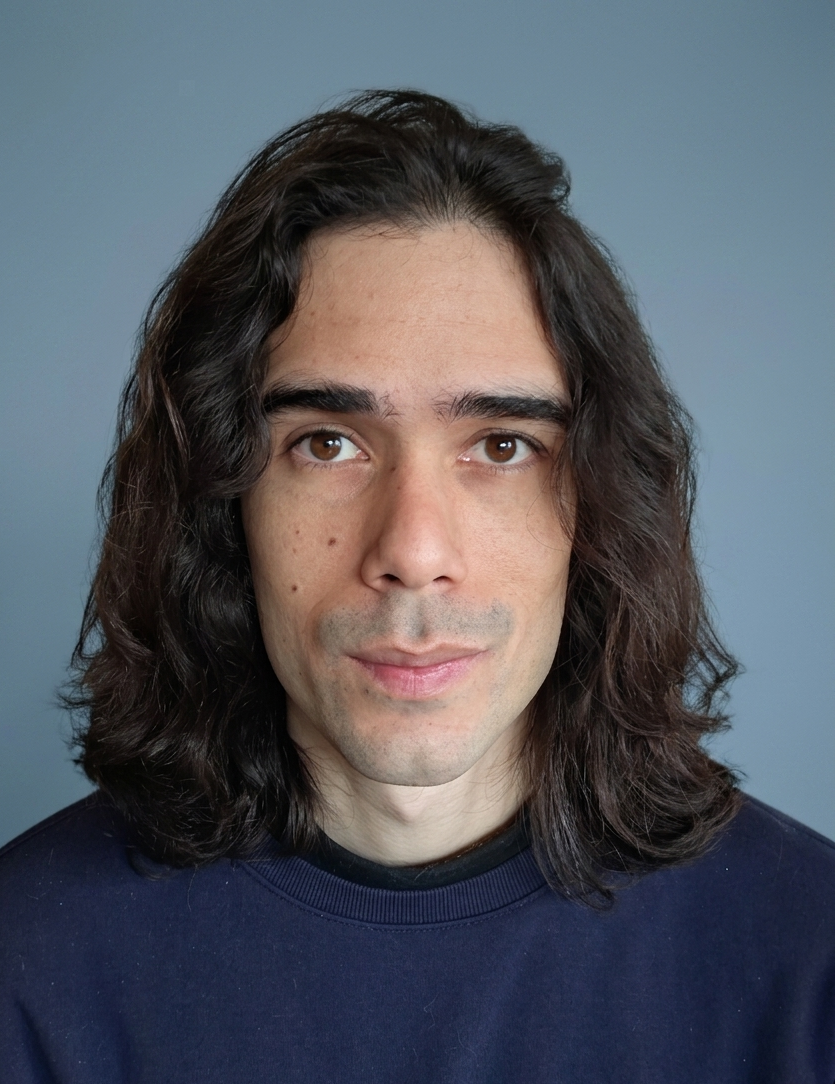
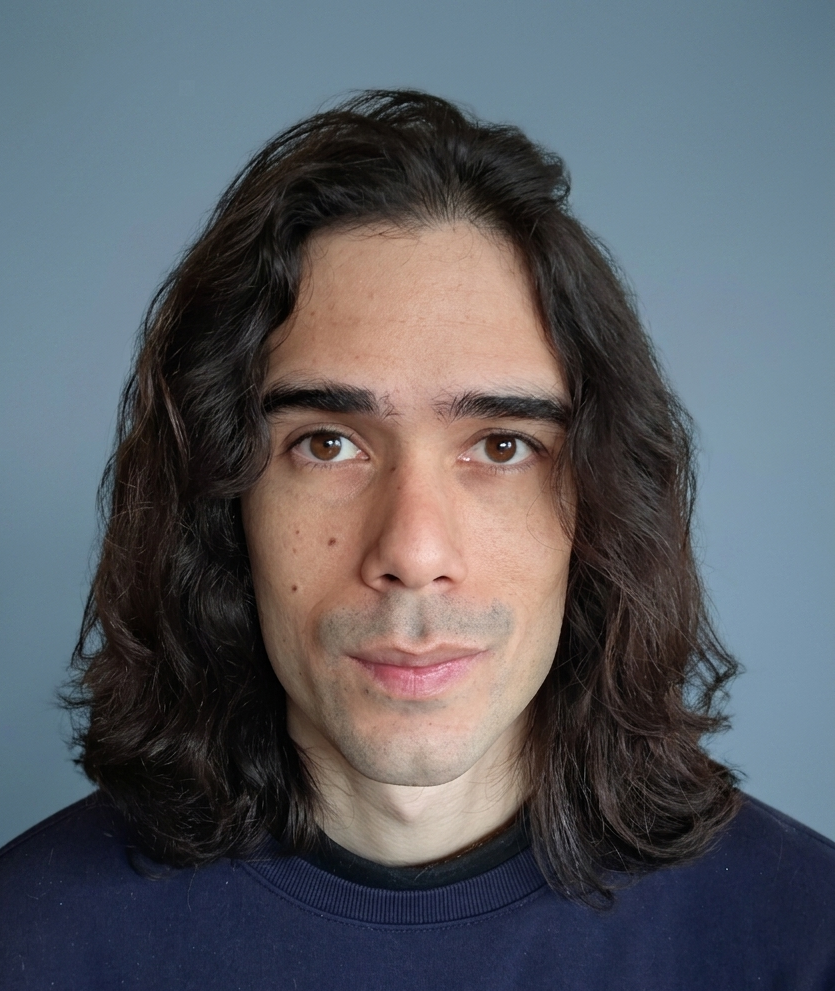
update photography

diff --git a/unscriptportfolio/src/app/page.tsx b/unscriptportfolio/src/app/page.tsx
@@ -98,7 +98,7 @@ function Navbar() {
             <span className="text-neutral-400 text-[8px] md:text-xs font-light tracking-[0.15em] md:tracking-[0.2em] uppercase opacity-90">
               2D Animation Artist
             </span>
-          </div>
+                      </div>
         </a>
         <ul className="flex gap-4 md:gap-14 text-neutral-300 list-none items-center">
           {NAV_LINKS.map(({ href, label }) => (
@@ -163,7 +163,7 @@ function AboutSection() {
             <img
               src="/images/profile.jpg"
               alt={`Portrait of ${OWNER.name}`}
-              className="w-48 h-48 md:w-80 md:h-80 object-cover rounded-2xl grayscale"
+              className="w-48 h-48 md:w-80 md:h-80 object-cover rounded-2xl grayscale hover:grayscale-0 transition-all duration-500"
             />
           </div>
           <div className="max-w-2xl text-center md:text-left">
@@ -208,7 +208,7 @@ function ContactFooter() {
                 </li>
               ))}
             </ul>
-          </nav>
+                      </nav>
         </div>
       </div>
     </footer>
